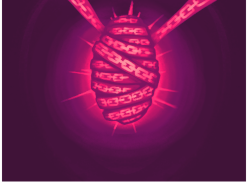
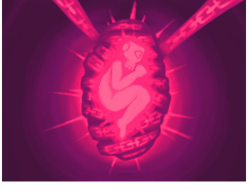
New Pictures for DefensiveLink, DualBarrier, Cocoon and Double Down

diff --git a/theUnchainedMod/src/main/java/theUnchainedMod/cards/DefensiveLink.java b/theUnchainedMod/src/main/java/theUnchainedMod/cards/DefensiveLink.java
@@ -13,7 +13,7 @@ import static theUnchainedMod.DefaultMod.makeCardPath;
 public class DefensiveLink extends AbstractDynamicCard {
 
     public static final String ID = DefaultMod.makeID(DefensiveLink.class.getSimpleName());
-    public static final String IMG = makeCardPath("Compounding.png");
+    public static final String IMG = makeCardPath("DefensiveLink.png");
     private static final CardRarity RARITY = CardRarity.BASIC;
     private static final CardTarget TARGET = CardTarget.SELF;
     private static final CardType TYPE = CardType.SKILL;

diff --git a/theUnchainedMod/src/main/java/theUnchainedMod/cards/DualBarrier.java b/theUnchainedMod/src/main/java/theUnchainedMod/cards/DualBarrier.java
@@ -15,7 +15,7 @@ import static theUnchainedMod.DefaultMod.makeCardPath;
 public class DualBarrier extends AbstractDynamicCard {
 
     public static final String ID = DefaultMod.makeID(DualBarrier.class.getSimpleName());
-    public static final String IMG = makeCardPath("ShieldFace.png");
+    public static final String IMG = makeCardPath("DualBarrier.png");
     private static final CardRarity RARITY = CardRarity.COMMON;
     private static final CardTarget TARGET = CardTarget.SELF;
     private static final CardType TYPE = CardType.SKILL;
